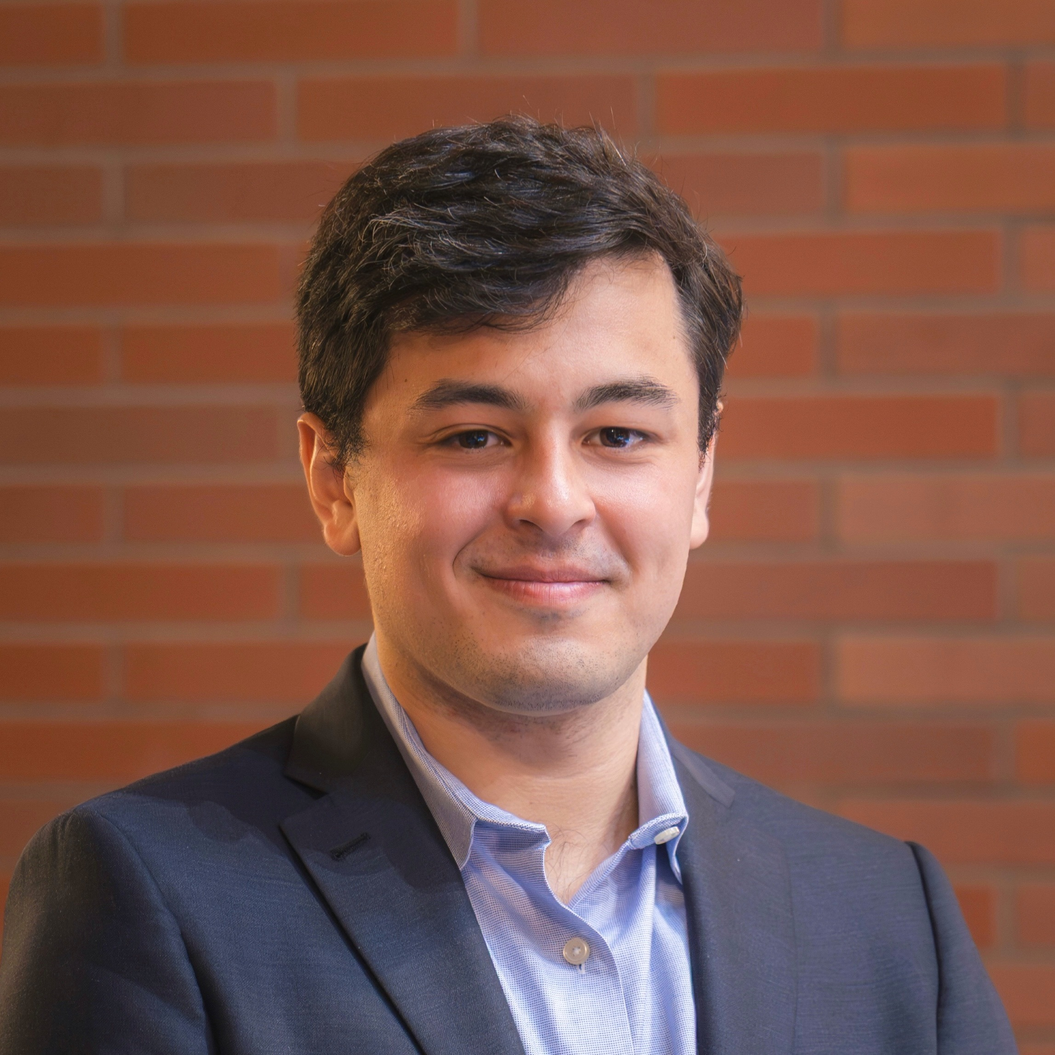
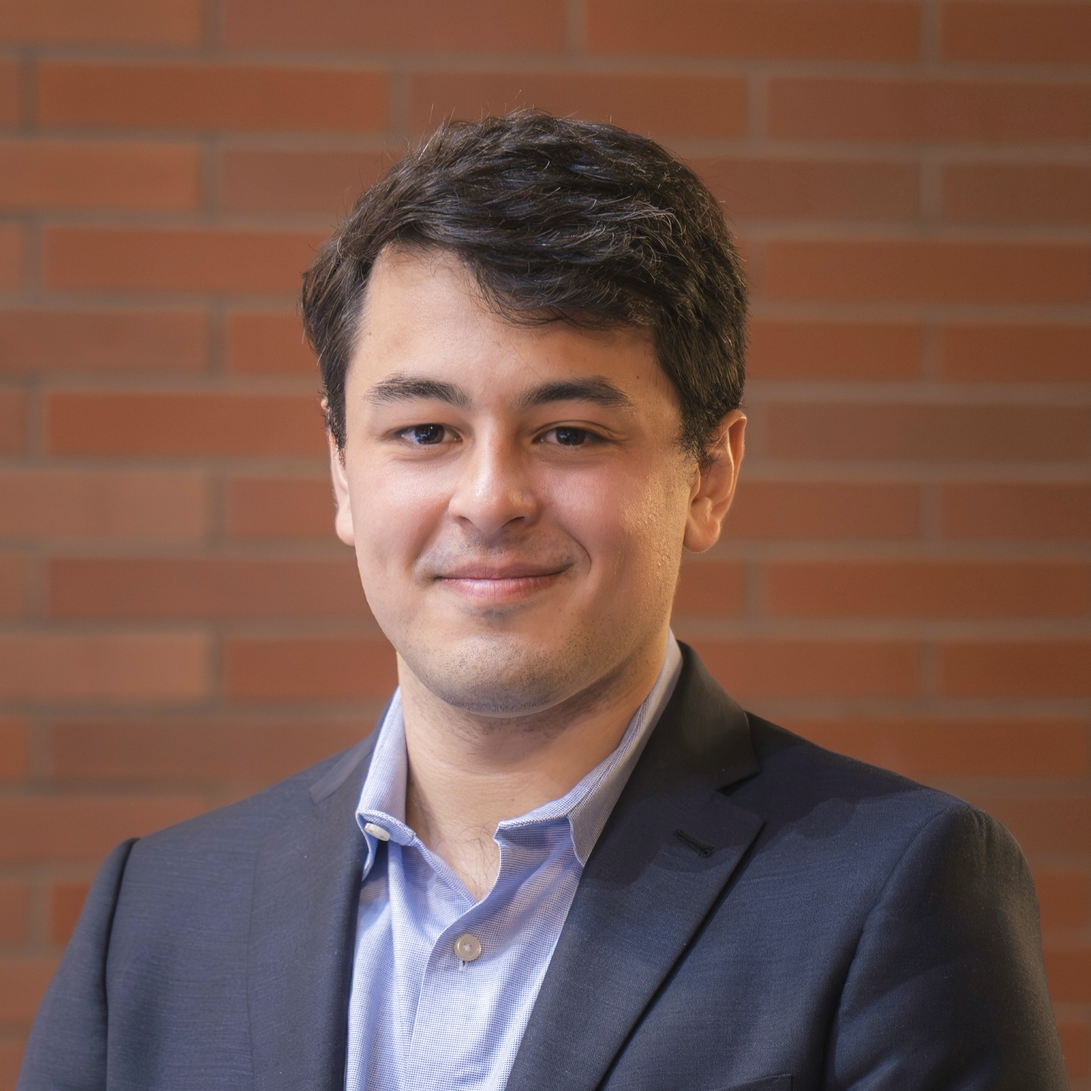
Updated profile pic

diff --git a/public/index.html b/public/index.html
@@ -129,7 +129,7 @@
     </a>
 </div>
 </h1>
-        <span><strong>Welcome to my website!</strong> I am a Ph.D. candidate in the <a href="https://oid.wharton.upenn.edu" target="_blank"><u>Operations, Information and Decisions</u></a> department at the <a href="https://www.wharton.upenn.edu" target="_blank"><u>Wharton School</u></a> of the University of Pennsylvania. My research interests center around the use of machine learning techniques and other novel data-driven approaches to understand and optimize decision-making in operations management problems. <br>  <br>
+        <span><strong>Welcome to my website!</strong> I am a Ph.D. candidate in the <a href="https://oid.wharton.upenn.edu" target="_blank"><u>Operations, Information and Decisions</u></a> department at <a href="https://www.wharton.upenn.edu" target="_blank"><u>The Wharton School</u></a> of the University of Pennsylvania. My research interests center around the use of machine learning techniques and other novel data-driven approaches to understand and optimize decision-making in operations management problems. <br>  <br>
 Previously, I received my  Bachelor&rsquo;s and Master&rsquo;s Degree in Systems Engineering at the <a href="https://www.seas.upenn.edu" target="_blank"><u>University of Pennsylvania School of Engineering and Applied Science</u></a> where I was a <a href="https://global.upenn.edu/isss/penn-world-scholars" target="_blank"><u>Penn World Scholar</u></a>. <br>  <br></span>
         <div class="buttons">
             <a class="button" href="Enzo%20Bergamo%20-%20CV.pdf" rel="noopener" title="CV">

diff --git a/public/courses/index.html b/public/courses/index.html
@@ -120,6 +120,7 @@
   </h1>
 </header>
 <div class="post-content"><h1 id="teaching">Teaching</h1>
+<p><em>(Evaluation Scale, when available: 0 to 4; Poor, Fair, Good, Very Good, Excellent)</em></p>
 <h3 id="oidd-6110---quality-and-productivity-mba-core-executive-mba-core">OIDD 6110 –  Quality and Productivity (MBA Core, Executive MBA Core)</h3>
 <ul>
 <li>Semester: Fall 2025, Spring 2026</li>
